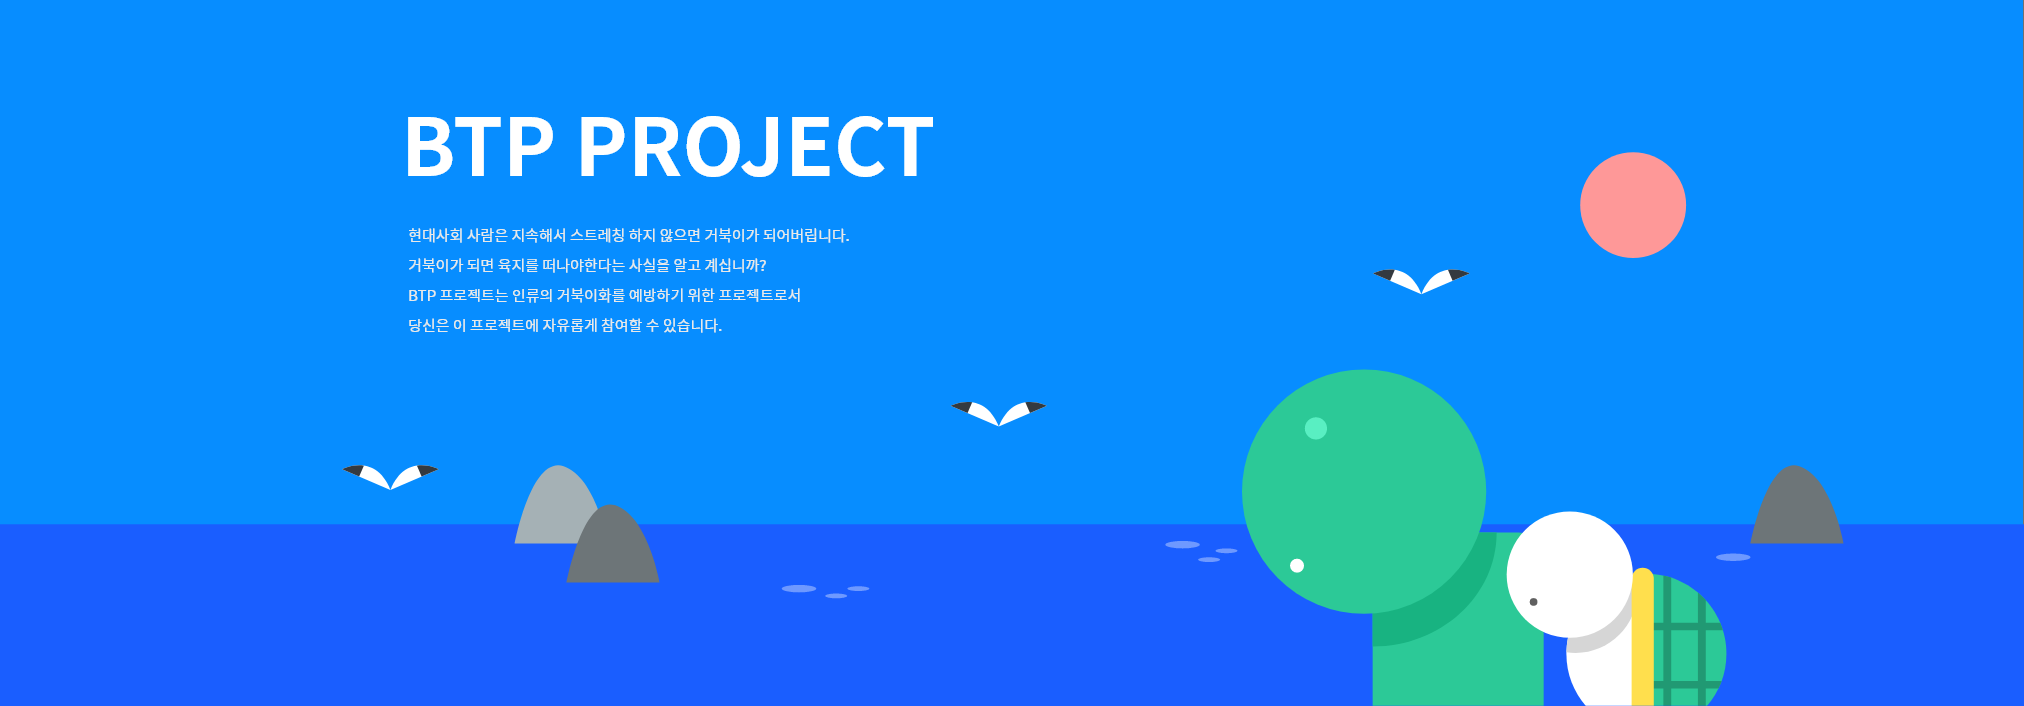
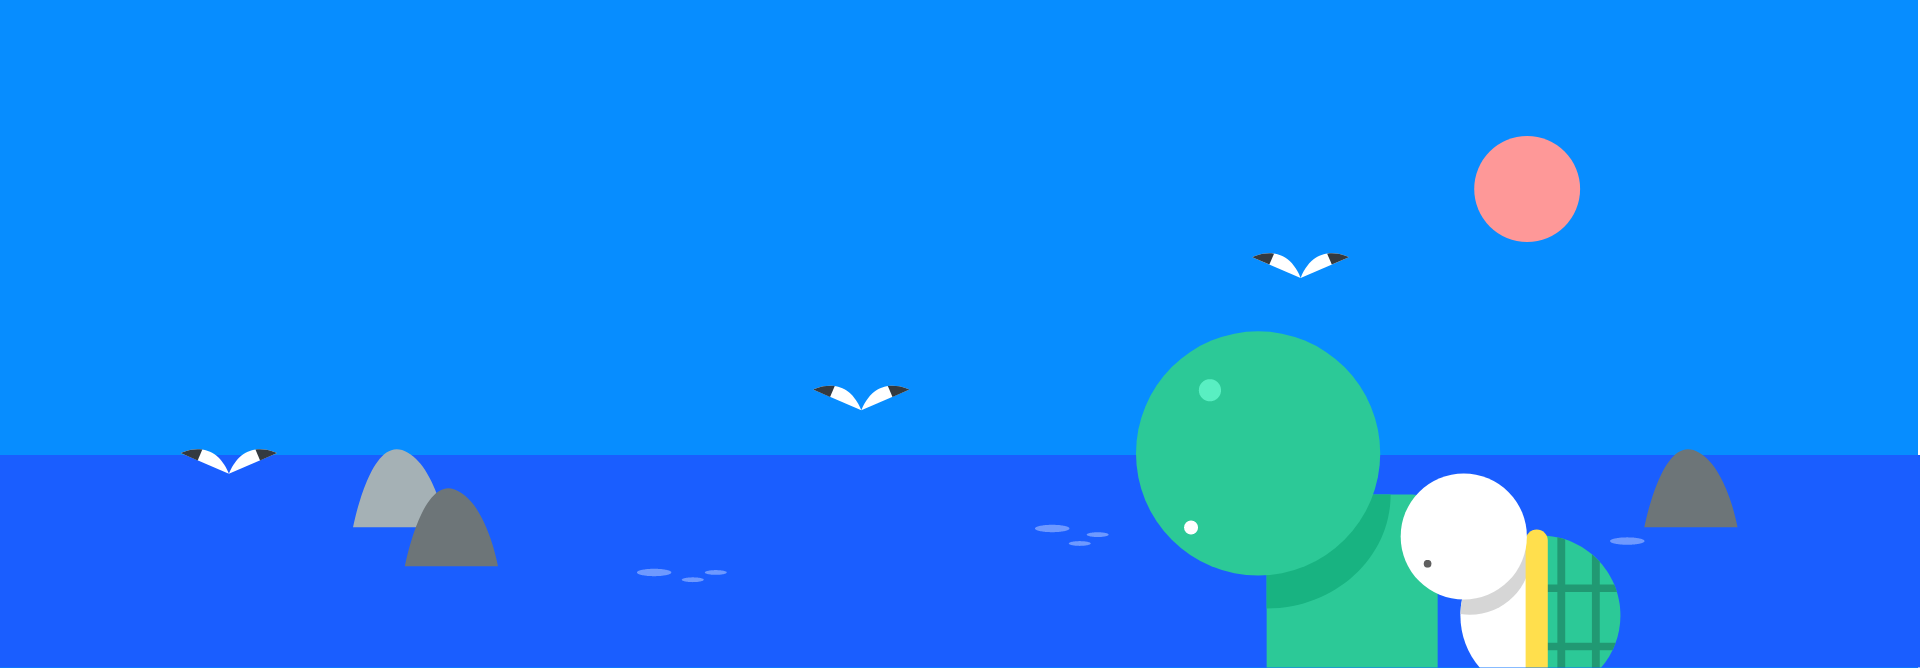
메인 페이지 레이아웃 수정 (헤더, BTP PROJECT, 메인 프로젝트)

diff --git a/src/views/Home.vue b/src/views/Home.vue
@@ -12,19 +12,19 @@
         <ul>
           <a href="#" class="menu-item">
             <li class="menu-text">스트레칭 가이드</li>
-            <img src="..\assets\icon\header_menu_arrow.png">
+            <!-- <img src="..\assets\icon\header_menu_arrow.png"> -->
           </a> 
           <a href="#" class="menu-item">
             <li class="menu-text">마이 루틴</li>
-            <img src="..\assets\icon\header_menu_arrow.png">
+            <!-- <img src="..\assets\icon\header_menu_arrow.png"> -->
           </a> 
           <a href="#" class="menu-item">
             <li class="menu-text"> 랜덤 챌린지</li>
-            <img src="..\assets\icon\header_menu_arrow.png">
+            <!-- <img src="..\assets\icon\header_menu_arrow.png"> -->
           </a> 
           <a href="#" class="menu-item">
             <li class="menu-text">이용안내</li>
-            <img src="..\assets\icon\header_menu_arrow.png">
+            <!-- <img src="..\assets\icon\header_menu_arrow.png"> -->
           </a> 
         </ul>
 
@@ -44,36 +44,32 @@
     <div class="main">
       <!-- 브랜드 소개 -->
       <div class="brand">
-        <div class="brand-img"><img src="../assets/images/brand.png"></div>
-        <div class="brand-desc">
-          <h1>BTP PROJECT</h1>
-          <p>
-            현대사회 사람은 지속해서 스트레칭 하지 않으면 거북이가 되어버립니다.<br>
-            현대사회 사람은 지속해서 스트레칭 하지 않으면 거북이가 되어버립니다.<br>
-            현대사회 사람은 지속해서 스트레칭 하지 않으면 거북이가 되어버립니다.<br>
-            현대사회 사람은 지속해서 스트레칭 하지 않으면 거북이가 되어버립니다.
-          </p>
-          <a href="#"><div class="morebtn">MORE</div></a>
-        </div>
+        <h1>BTP PROJECT</h1>        
+        <img src="../assets/images/brand.png">
+        <p>
+          현대사회 사람은 지속해서 스트레칭 하지 않으면 거북이가 되어버립니다.<br>
+          거북이가 되면 육지를 떠나야한다는 사실을 알고 계십니까?<br>
+          BTP 프로젝트는 인류의 거북이화를 예방하기 위한 프로젝트로서<br>
+          당신은 이 프로젝트에 자유롭게 참여할 수 있습니다.<br>
+        </p>
+        <a href="#"><div class="morebtn">MORE</div></a>
       </div>
 
     <!-- 메인 프로젝트 -->
+    <div class="btp-menu">
     <div class="title">
-        <div class="circle"><img src="../assets/icon/circle-green.png"></div>
+        <img src="../assets/icon/circle-green.png">
         <h1>MAIN PROJECT</h1>
         <p>본 프로젝트로 계획된 플랜을 살펴볼 수 있습니다.</p>
     </div>
-
-    <div class="project-menu">     
-      <!-- 메뉴 -->
+      <!-- 상세 메뉴 -->
+    <div class="project-menu">
       <div class="project-item">
         <img class="project-icon" src="../assets/images/stretching.png">
-        <div class="project-desc">
-          <h1>스트레칭 가이드</h1>
-          <h2>Stretching Guide</h2>
-        </div>
+        <h1>스트레칭 가이드</h1>
+        <h2>Stretching Guide</h2>
         <img class="showbtn" src="../assets/icon/circle-down-btn.png">
-        <a href="#"><div class="start">START! ▶</div></a>
+        <a href="#"><div class="start">START</div></a>
       </div>
       <div class="project-item">
         <img class="project-icon" src="../assets/images/myroutine.png">
@@ -82,20 +78,20 @@
           <h2>My Stretching Routine</h2>
         </div>
         <img class="showbtn" src="../assets/icon/circle-down-btn.png">
-        <a href="#"><div class="start">START! ▶</div></a>
+        <a href="#"><div class="start">START</div></a>
       </div>
       <div class="project-item">
         <img class="project-icon" src="../assets/images/random_challenge.png">
         <div class="project-desc">
           <h1>랜덤 챌린지</h1>
-          <h2>Random Challeng</h2>
+          <h2>Random Challenge</h2>
         </div>
         <img class="showbtn" src="../assets/icon/circle-down-btn.png">
-        <a href="#"><div class="start">START! ▶</div></a>
+        <a href="#"><div class="start">START</div></a>
       </div>
     </div>
   </div>
-
+  </div>
 
   <!-- 모래부분 -->
   <footer class="foot">

diff --git a/src/assets/scss/components/home.scss b/src/assets/scss/components/home.scss
@@ -6,7 +6,7 @@ $btpfont: 'Noto Sans KR', sans-serif;
 $btpblack:#343A40;
 $mainblue: #1A5EFF;
 $mainsand: #FFF492;
-$btpgray:#d2d2d2;
+$btpgray:#EBEBEB;
 $redbtn:#FF6B6B;
 
 *{
@@ -15,106 +15,106 @@ $redbtn:#FF6B6B;
 
 body{
   padding: 0;
-  margin: 0;
+  margin: 0 0;
 }
 
 //blue mainpage
 .main {
-  margin: 0 0;
+  width: 1200px; 
+  margin: 0 auto;
 }
-
 
 // 메인 프로젝트
+.btp-menu {
+  margin-left: auto;
+  margin-right: auto;
 .title {
+  margin-bottom: 49px;
+  padding-left: 16px;
+    h1 {
+      display: inline-block;
+      margin: 0;
+      font-weight: bold;
+      font-size: 50px;
+      vertical-align: middle;
+      line-height: 50px;
+      color:white;
+    }
+    p {
+      margin-top: 25px;
+      line-height: 100%;
+      padding-left:42px;
+      font-size: 16px;
+      margin-bottom: 70px;
+      color: $btpgray;
+    }
+    img{
+      width: 18px;
+      margin-right: 16px;
+    }
+  }
+}
+
+//project menu
+.project-menu{
   display: flex;
-  flex-wrap: wrap;
-  margin-left: 178px;
-  margin-bottom: 70px;
-  vertical-align: middle;
-  width: 368px;
+  align-content: center;
+  justify-content: center;
+  margin: 0 auto;
+  margin-bottom: 253px;
+  text-align: center;
 }
-.circle {
-  display: inline-block;
-  margin-right:16px;
-  vertical-align: middle;
-}
-.title h1 {
-  display: inline-block;
-  color: white;
-  font-weight: bold;
-  font-size: 25px;
-  line-height: 100%;
-  margin-bottom: 16px;
-}
-
-.title p {
-  margin: 0 0;
-  line-height: 100%;
-  color:#D2D2D2;
-  padding-left:42px;
-  font-size: 16px;
-}
-
-.project-menu {
-  display: flex;
-  flex-direction: column;
-  width: 80%;
-  margin-left: 178px;
-  margin-bottom: 164px;
-}
-
 .project-item {
   position: relative;
-  background-color: white;
-  height: 284px+40px+40px;
-  width: 1310px-92px;
-  border-radius:20px;
-  box-shadow: 0 6px 8px -7px black;
-  margin-bottom: 72px;
-  padding: 40px 52px 40px 40px;
+  margin: 0 23px;
+  width: 369px;
+  border-radius: 25px;
+  background: #FFFFFF;
+  box-shadow: 0px 4px 4px rgba(0, 0, 0, 0.25);
+    h1 {
+      margin: 0 0;
+      font-weight: bold;
+      font-size: 25px;
+      line-height: 36px;
+      text-align: center;
+      color: $btpblack;
+    }
+    h2 {
+      margin: 0 0;
+      font-weight: bold;
+      font-style: normal;
+      font-weight: 500;
+      font-size: 18px;
+      line-height: 26px;
+    }
 }
 .project-icon {
   display: inline-block;
-}
-.project-desc {
-  display: inline-block;
-  position: absolute;
-  top:128px;
-  left:284px+84px+40px;
-}
-
-.project-item h1 {
-  font-size: 51px;
-  font-weight: bold;
-  margin: 0 0;
-  color: $btpblack;
-}
-
-.project-item h2 {
-  margin: 0 0;
-  font-weight: bold;
-  color: $btpblack;
+  height: 214px;
+  margin: 44px auto 50px auto;
 }
 
 .showbtn {
-  //테스트 및 배치+임시용 V 버튼
+  margin: 0 0;
   position: absolute;
-  right: 52px;
+  width: 35px;
+  top:24.45px;
+  right: 19.76px;
 }
 
 .start {
   display: inline-block;
-  position: absolute;
-  top: 228px;
-  right: 52px;
-  width: 220.68;
-  border-radius: 20px;
+  border-radius: 15px;
+  margin-top: 57px;
+  margin-bottom: 43px;
+  width: 130px;
+  height: 50px;
   background-color: $redbtn;
-  font-size: 34px;
-  line-height: 34px;
+  font-size: 20px;
   font-weight: bold;
   color: white;
-  padding: 15px 21px;
+  line-height: 50px;
+  vertical-align: middle;
 }
 
 //bottom

diff --git a/src/assets/scss/components/brand.scss b/src/assets/scss/components/brand.scss
@@ -7,14 +7,14 @@
 
 //-> brand
 .brand {
-  position: relative;
-  height: 650px;
-  margin: 160px auto 160px 178px;
+  display: flex;
+  flex-direction: column;
+  justify-content: center;
+  align-items: center;
+  margin: 160px auto;
+  text-align: center;
 }
-.brand-desc {
-  display: inline-block;
-}
-.brand-desc h1 {
+.brand h1 {
   height: 88px;
   margin-top: 56px;
   margin-bottom: 62px;
@@ -25,28 +25,22 @@
   vertical-align: middle;  
   color: white;
 }
-.brand-desc p {
-  font-size:20px;
+.brand p {
+  margin-top: 41px;
+  margin-bottom: 100px; //
+  font-weight: 500;
+  font-size:21px;
+  line-height: 32px;
   color: $btpgray;
-  margin-bottom: 56px;
 }
-
 .morebtn {
   display: inline-block;
+  width: 148.5px;
+  padding:3px;
+  border-radius: 15px;
   text-align: center;
   font-size: 26px;
   color: white;
   font-weight: bold;
   background-color: $btpblack;
-  width: 148.5px;
-  padding:3px;
-  border-radius: 22px;
-}
-
-.brand-img{
-  display: inline-block;
-  position: absolute; 
-  width: 858px;
-  top:230px;
-  right: 178px;
 }

diff --git a/src/assets/scss/components/header.scss b/src/assets/scss/components/header.scss
@@ -3,6 +3,7 @@ header a {text-decoration: none; outline: none }
 
 // top black bar
 .bar {
+  display: flex;
   padding: 0 8%; //임의
   height: 48px;
   background-color: $btpblack;
@@ -12,11 +13,10 @@ header a {text-decoration: none; outline: none }
 }
 
 .music-player{
-  float: left;
-  width: 500px;
+  flex: none;
 }
 .clock{
-  float: right;
+  margin-left: auto;
 }
 
 // LOGO
@@ -58,11 +58,11 @@ nav ul li {
   font-size: 17px;
   color: $btpblack;
   text-decoration: none;
-  margin-right: 30px;
+  margin: 0 15px;
 }
 
 .menu-text {
-  margin-right: 15px;
+  margin: 0 7.5px;
 }
 
 //PRIVATE MENU
